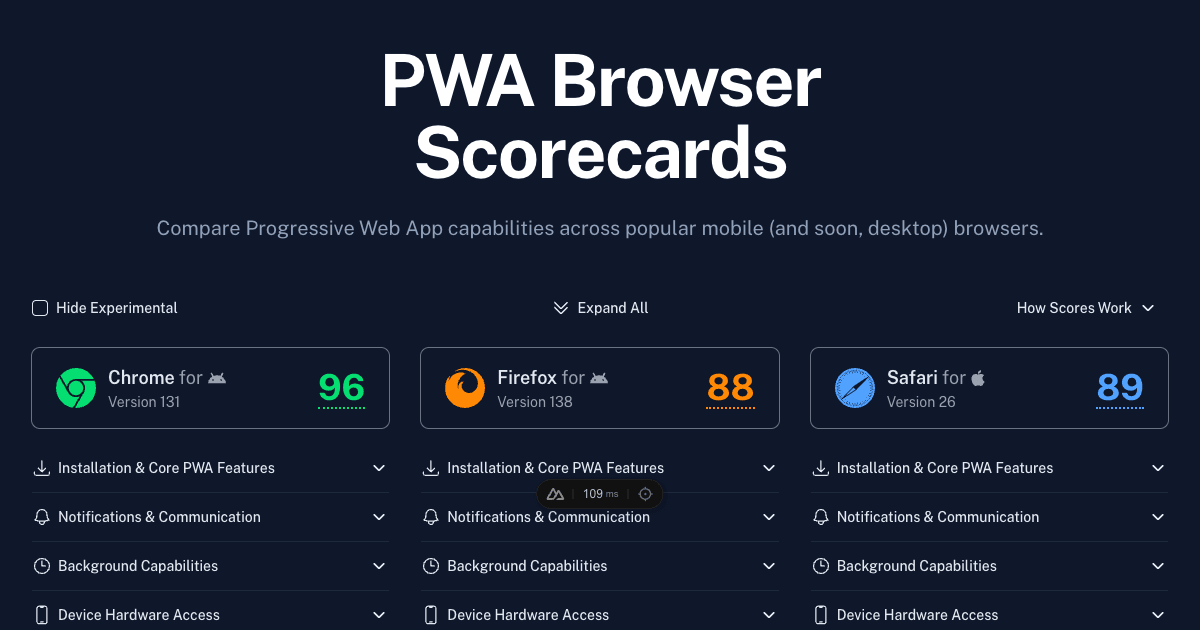
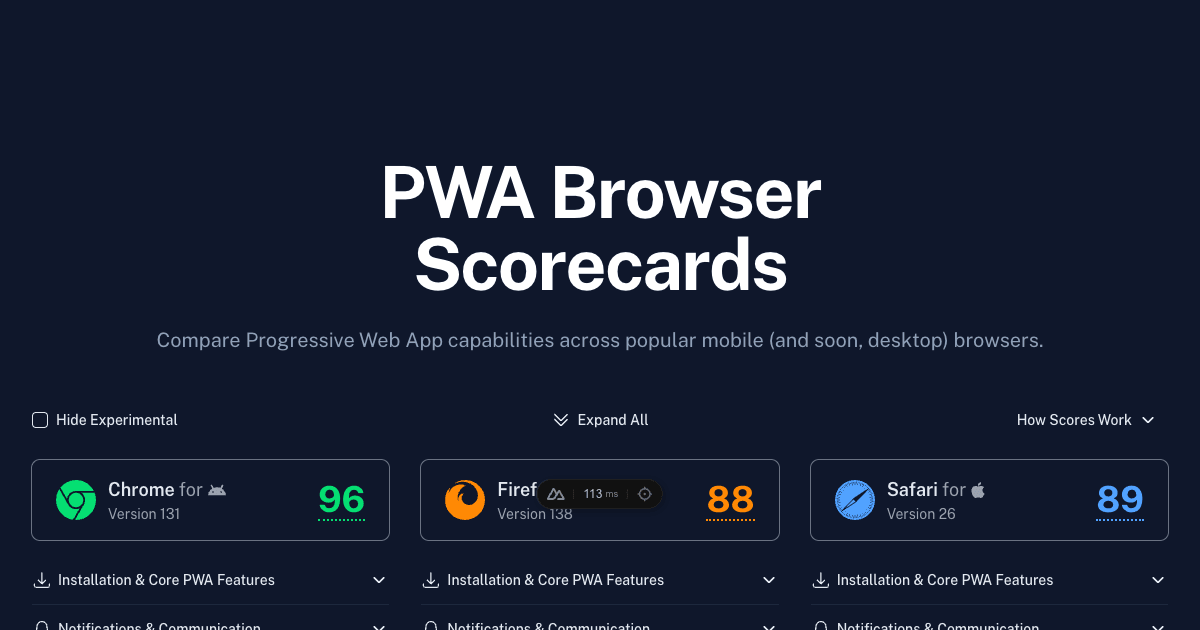
fix(mobile): adjust hero top padding for mobile and desktop
- Set mobile hero padding to 24px (pt-6)
- Keep desktop padding at 48px (lg:pt-12)
- Previous commit incorrectly set both to same value

diff --git a/app/pages/index.vue b/app/pages/index.vue
@@ -12,7 +12,7 @@ useSeoMeta({
       title="PWA Browser Scorecards"
       description="Compare Progressive Web App capabilities across popular mobile (and soon, desktop) browsers."
       :ui="{
-        container: '!pb-12 pt-12',
+        container: '!pb-12 pt-6 lg:pt-12',
         title: 'max-w-3xl mx-auto'
       }"
     />
